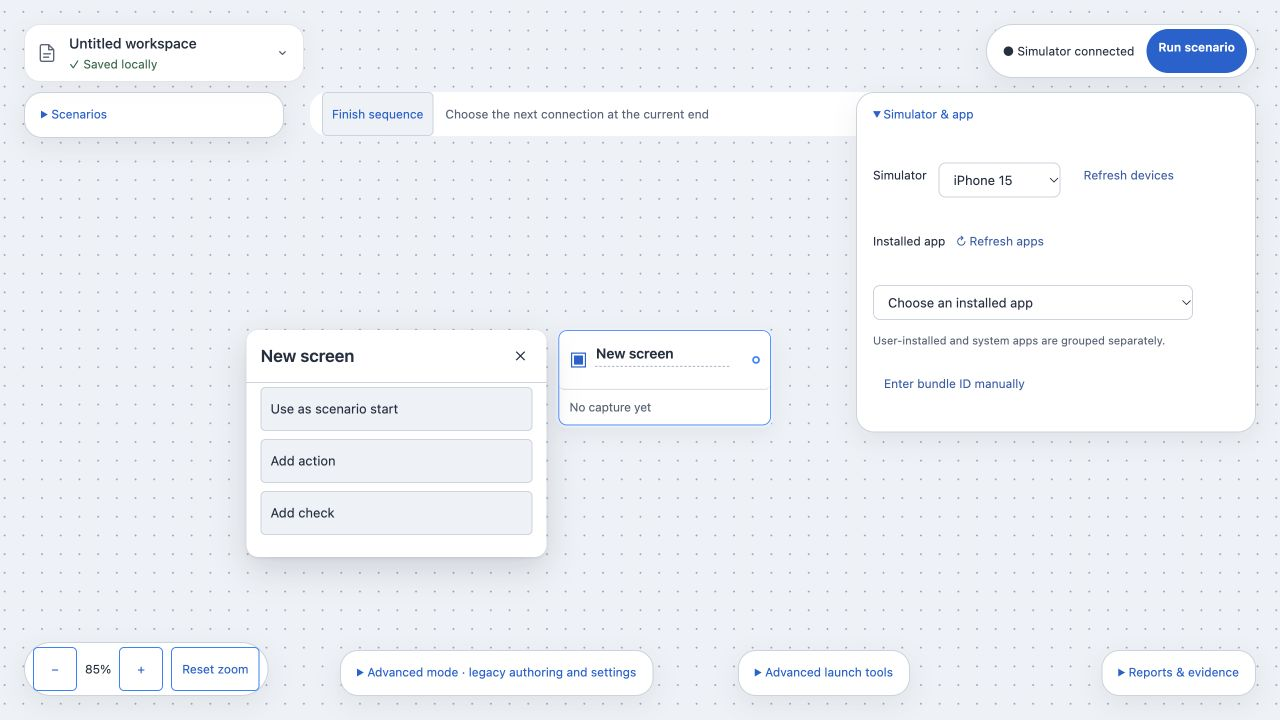
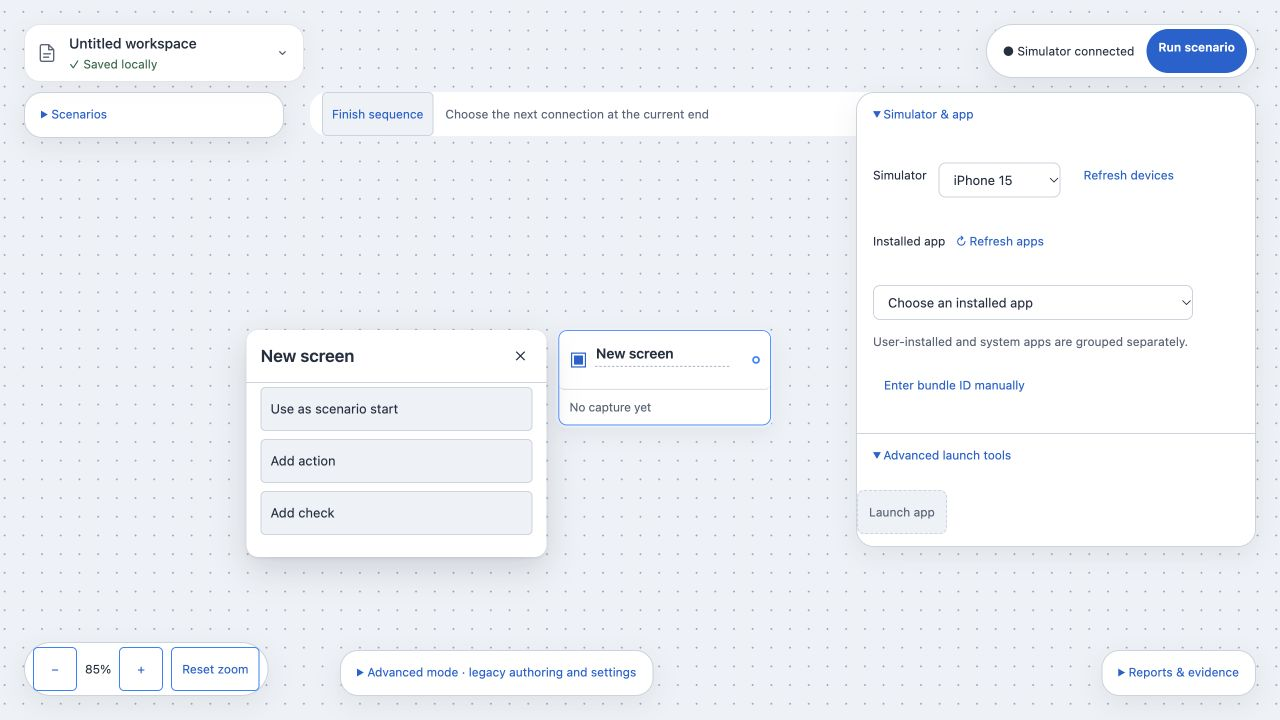
fix(ui): keep floating controls and deletion actions reachable

diff --git a/src/canvas.tsx b/src/canvas.tsx
@@ -118,9 +118,9 @@ export function CanvasBoard({onInspect,graph,pathId,result,onMove,onSelect,selec
   const bounds=visibleBounds(rectOf(viewportRef.current),{width:window.innerWidth,height:window.innerHeight});
   if(viewportRef.current.closest('.workbench')){const bottom=Math.min(bounds.top+bounds.height,window.innerHeight-88);bounds.top=Math.max(bounds.top,156);bounds.height=Math.max(0,bottom-bounds.top);}
   const rects=(elements:Element[])=>elements.map(rectOf).filter(rect=>rect.width>0&&rect.height>0);
-  const controls=rects(Array.from(document.querySelectorAll('.workbench .device-toolbar[open],.workbench .scenario-controls[open],.workbench .workspace-advanced[open],.workbench .report-tools[open],.workbench .launch-tools[open],.workbench .workspace-management-surface,.workbench .canvas-inspectors,.workbench .draft-banner,.workbench .canvas-editor>.notice,.workbench .go-to-issue')));
+  const controls=rects(Array.from(document.querySelectorAll('.workbench .device-toolbar[open],.workbench .scenario-controls[open],.workbench .workspace-advanced[open],.workbench .report-tools[open],.workbench .workspace-management-surface,.workbench .canvas-inspectors,.workbench .draft-banner,.workbench .canvas-editor>.notice,.workbench .go-to-issue,.workbench>main>.notice,.workbench .scenario-panel>.notice,.workbench .run-error-toast')));
   for(const control of controls){
-   if(control.width<260||control.height<120||control.left+control.width<=bounds.left||control.left>=bounds.left+bounds.width)continue;
+   if(control.width<260||control.height<44||control.left+control.width<=bounds.left||control.left>=bounds.left+bounds.width)continue;
    const leftSpace=control.left-bounds.left-12;const rightSpace=bounds.left+bounds.width-control.left-control.width-12;
    if(rightSpace>=leftSpace&&rightSpace>=inspectorWidth+16){bounds.left=control.left+control.width+12;bounds.width=rightSpace;}
    else if(leftSpace>=inspectorWidth+16)bounds.width=leftSpace;
@@ -466,7 +466,7 @@ export function CanvasEditor({graph,onChange,catalog,diagnostics,pathId,onPathCh
  </fieldset></>}</div>}
  {visibleDiagnostics.length>0&&<div className="notice error" role="alert"><strong>{scenarioMode?'Before running':'References need review'}</strong>{visibleDiagnostics.map((diagnostic,index)=>{const label=graph.screens.flatMap(screen=>screen.tests).find(test=>test.id===diagnostic.ownerId)?.label??graph.screens.find(screen=>screen.id===diagnostic.ownerId)?.title??graph.edges.find(edge=>edge.id===diagnostic.ownerId)?.responseCondition??graph.paths.find(path=>path.id===diagnostic.ownerId)?.name??diagnostic.ownerId;return <p key={index}>{scenarioMode&&(scenarios.find(item=>item.id===scenarioId)?.name??'Selected scenario')+' · '}{label}: {diagnostic.detail} <button className="text-button" disabled={disabled} aria-label={'Repair '+label} onClick={()=>repairDiagnostic(diagnostic)}>Repair</button></p>;})}</div>}
  {pending&&<div role="alertdialog" aria-label="Canvas reference warning" aria-modal="true" className="notice canvas-delete-dialog" onKeyDown={event=>{if(event.key==='Escape')setPending(undefined);}}><p>Confirm cleanup: {pending.warnings.join(', ')}. Shared actions/checks used elsewhere will be kept.</p><button autoFocus disabled={disabled||pending.source!==yaml} onClick={()=>perform(()=>{if(yaml!==undefined&&onYamlChange)changeChecks(pending.graph,true);else{setUndo({graph:graph!,after:pending.graph});onChange(pending.graph);}setPending(undefined);})}>Delete anyway</button><button onClick={()=>setPending(undefined)}>Cancel deletion</button></div>}
- {undo&&<button onPointerDown={()=>setExpandedRow('')} disabled={disabled||yaml!==undo.afterYaml||JSON.stringify(graph)!==JSON.stringify(undo.after)} onClick={()=>{if(undo.yaml!==undefined)onYamlChange?.(undo.yaml);onChange(undo.graph);setUndo(undefined);}}>Undo canvas deletion</button>}
+ {undo&&<button className="canvas-undo" onPointerDown={()=>setExpandedRow('')} disabled={disabled||yaml!==undo.afterYaml||JSON.stringify(graph)!==JSON.stringify(undo.after)} onClick={()=>{if(undo.yaml!==undefined)onYamlChange?.(undo.yaml);onChange(undo.graph);setUndo(undefined);}}>Undo canvas deletion</button>}
  {infoScreen&&<NodeInfo screen={infoScreen} disabled={disabled} error={error} onImage={file=>void image(infoScreen.id,file)} onRemove={()=>onChange({...graph,screens:graph.screens.map(screen=>screen.id===infoScreen.id?{...screen,referenceScreenshot:undefined}:screen)})} onClose={()=>{setNodeInfoId('');setError('');}}/>}
  {error&&!infoScreen&&<div className="notice error" role="alert">{error}</div>}
  </>}

diff --git a/src/app.tsx b/src/app.tsx
@@ -22,8 +22,8 @@ export function App() {
     const workbench=document.querySelector('.workbench');
     const toggle=(event:Event)=>{
       const opened=event.target as HTMLDetailsElement;
-      if(!workbench?.contains(opened)||!opened.open||!opened.matches('.device-toolbar,.scenario-controls,.workspace-advanced,.report-tools,.launch-tools'))return;
-      workbench.querySelectorAll<HTMLDetailsElement>('.device-toolbar,.scenario-controls,.workspace-advanced,.report-tools,.launch-tools').forEach(panel=>{if(panel!==opened)panel.open=false;});
+      if(!workbench?.contains(opened)||!opened.open||!opened.matches('.device-toolbar,.scenario-controls,.workspace-advanced,.report-tools'))return;
+      workbench.querySelectorAll<HTMLDetailsElement>('.device-toolbar,.scenario-controls,.workspace-advanced,.report-tools').forEach(panel=>{if(panel!==opened)panel.open=false;});
     };
     document.addEventListener('toggle',toggle,true);
     return()=>document.removeEventListener('toggle',toggle,true);
@@ -81,10 +81,10 @@ export function App() {
         <label htmlFor="device">Simulator</label><select id="device" value={deviceId} disabled={busy||scenarioBusy} onChange={event=>setDeviceId(event.target.value)}><option value="">Design offline</option>{status?.devices.map(device=><option key={device.id} value={device.id}>{device.name}</option>)}</select>
         <button className="text-button" disabled={busy||scenarioBusy} onClick={()=>void refresh()}>Refresh devices</button>
         <AppPicker key={deviceId+status?.token} deviceId={deviceId} token={status?.token??''} value={bundleId} onChange={setBundleId} onReady={setPickerReady} disabled={busy||scenarioBusy}/>
-      </div></details>
+      </div><details className="launch-tools"><summary>Advanced launch tools</summary><form onSubmit={launch}><button className="confirm" disabled={!ready||!pickerReady||busy||scenarioBusy}>Launch app</button></form>{result&&<><p>{result.bundleId} · {result.status}</p>{result.status==='awaiting-confirmation'&&<button onClick={()=>void confirm()} disabled={busy||!screen}>I can see the app</button>}<pre>{result.log}</pre></>}</details></details>
       {(error||status?.error)&&<div className="notice error" role="alert">{error||status?.error}</div>}
       <Scenarios token={devNoRunner?'':status?.token??''} deviceId={deviceId} bundleId={bundleId} launchBusy={busy} onRunning={setScenarioBusy} recoverSession simulatorConnected={!!ready}/>
-      <details className="launch-tools"><summary>Advanced launch tools</summary><form onSubmit={launch}><button className="confirm" disabled={!ready||!pickerReady||busy||scenarioBusy}>Launch app</button></form>{result&&<><p>{result.bundleId} · {result.status}</p>{result.status==='awaiting-confirmation'&&<button onClick={()=>void confirm()} disabled={busy||!screen}>I can see the app</button>}<pre>{result.log}</pre></>}</details>
+
       <footer hidden><span>iOS first · Local execution</span><span>Pick reviewed steps from the simulator · Isolated mock scenarios and reusable assertions.</span></footer>
     </main>
   </div>;

diff --git a/src/style.css b/src/style.css
@@ -687,8 +687,13 @@ input:disabled,select:disabled,textarea:disabled{color:var(--muted);background:v
 
 .workbench .canvas-editor>.label-row{position:fixed;top:24px;left:390px;z-index:6;margin:0}
 .workbench .canvas-editor>.label-row button{min-height:44px;margin:0}
-.workbench .go-to-issue{position:fixed;top:156px;left:24px;z-index:8;margin:0}
+.workbench .go-to-issue{position:fixed;top:24px;left:540px;z-index:8;margin:0}
 .workbench .canvas-inspectors{position:fixed;top:156px;left:24px;z-index:6;width:min(600px,45vw);max-height:calc(100dvh - 244px);overflow:auto;grid-template-columns:1fr;padding:16px;background:var(--surface);border:1px solid var(--border);border-radius:16px;font-size:12px}
-.workbench:has(.device-toolbar[open],.scenario-controls[open],.workspace-advanced[open],.report-tools[open],.launch-tools[open],.workspace-management-surface) .canvas-inspectors{display:none}
-.workbench .canvas-editor>.notice{position:fixed;top:156px;left:24px;z-index:8;width:min(600px,45vw);max-height:120px;overflow:auto;margin:0}
+.workbench:has(.device-toolbar[open],.scenario-controls[open],.workspace-advanced[open],.report-tools[open],.workspace-management-surface) .canvas-inspectors{display:none}
+.workbench .canvas-editor>.notice:not(.canvas-delete-dialog){position:fixed;top:156px;left:24px;z-index:8;width:min(600px,45vw);max-height:120px;overflow:auto;margin:0}
 .workbench .draft-banner{max-width:min(600px,45vw)}
+
+.device-toolbar[open]{max-height:calc(100dvh - 190px);overflow:auto}
+.device-toolbar .launch-tools,.device-toolbar .launch-tools[open]{position:static;inset:auto;width:auto;max-height:none;margin:0;padding:0;border:0;border-top:1px solid var(--border);border-radius:0;box-shadow:none}
+
+.workbench .canvas-undo{position:fixed;top:156px;left:24px;z-index:8;min-height:44px;margin:0}

diff --git a/tests/floating-inspector-ui.test.ts b/tests/floating-inspector-ui.test.ts
@@ -907,5 +907,23 @@ test("floating controls reserve inspector bounds and an open popover moves the c
     page.document.getElementById("root")!.append(controls);
     await act(async()=>{controls.open=true;controls.dispatchEvent(new page.window.Event("toggle"));});
     assert.equal(page.placement().side,"left", "An open simulator popover must not cover the inspector");
+    controls.remove();
+    const notice=page.document.createElement("aside");
+    notice.className="notice error";
+    notice.dataset.layout="canvas-notice";
+    page.rects.set("canvas-notice",{left:24,top:156,width:600,height:60});
+    page.rects.set("home",{left:100,top:160,width:250,height:180});
+    page.document.querySelector(".canvas-editor")!.append(notice);
+    await page.relayout();
+    assert.ok(page.placement().left >= 624, "A short error notice must also stay clear of the inspector");
+    notice.remove();
+    const toast=page.document.createElement("aside");
+    toast.className="run-error-toast";
+    toast.dataset.layout="run-error";
+    page.rects.set("run-error",{left:800,top:560,width:400,height:100});
+    page.rects.set("home",{left:650,top:400,width:250,height:180});
+    page.document.getElementById("root")!.append(toast);
+    await page.relayout();
+    assert.ok(page.placement().left + 300 <= 800, "A run failure must not cover inspector actions");
   } finally { await page.close(); }
 });

diff --git a/tests/canvas-layout-ui.test.ts b/tests/canvas-layout-ui.test.ts
@@ -54,5 +54,10 @@ test('opening a floating control closes the previous floating popover',async()=>
   await act(async()=>{device.open=true;device.dispatchEvent(new dom.window.Event('toggle'));});
   assert.ok(device.open);
   assert.equal(scenarios.open,false,'The old floating popover closes so controls cannot crowd the inspector');
+  const launch=device.querySelector<HTMLDetailsElement>('.launch-tools')!;
+  assert.ok(launch,'Advanced launch controls remain reachable inside Simulator & app');
+  await act(async()=>{launch.open=true;launch.dispatchEvent(new dom.window.Event('toggle'));});
+  assert.ok(device.open,'Opening nested launch tools must keep its simulator popover open');
+  assert.ok(launch.open);
  }finally{await act(async()=>root.unmount());dom.window.close();for(const[key,descriptor]of previous){if(descriptor)Object.defineProperty(globalThis,key,descriptor);else Reflect.deleteProperty(globalThis,key);}}
 });
